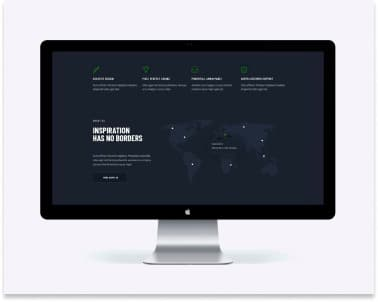
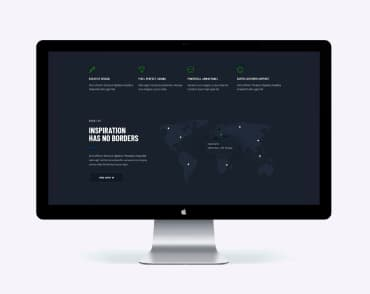
добавив display block

diff --git a/portfolio.html b/portfolio.html
@@ -70,64 +70,64 @@
           </ul>
           <ul class="project-list list">
             <li class="project-card">
-              <img src="./images/tehno.jpg" alt="Ноутбук з картками людей" width: "370" />
+              <img src="./images/tehno.jpg" alt="Ноутбук з картками людей" width:="370" />
               <div class="aside">
                 <h2 class="project-name">Технокряк</h2>
                 <p class="project-text">Веб-сайт</p>
               </div>
             </li>
             <li class="project-card">
-              <img src="./images/poster.jpg" alt="Постер New Orlean vs Golden Star" width: "370" />
+              <img src="./images/poster.jpg" alt="Постер New Orlean vs Golden Star" width:="370" />
               <div class="aside">
                 <h2 class="project-name">Постер New Orlean vs Golden Star</h2>
                 <p class="project-text">Дизайн</p>
               </div>
             </li>
             <li class="project-card">
-              <img src="./images/restoran.jpg" alt="Емблема ресторану Seafood" width: "370" />
+              <img src="./images/restoran.jpg" alt="Емблема ресторану Seafood" width:="370" />
               <div class="aside">
                 <h2 class="project-name">Ресторан Seafood</h2>
                 <p class="project-text">Додаток</p>
               </div>
             </li>
             <li class="project-card">
-              <img src="./images/prime.jpg" alt="Наушники" width: "370" />
+              <img src="./images/prime.jpg" alt="Наушники" width:="370" />
               <div class="aside">
                 <h2 class="project-name">Проєкт Prime</h2>
                 <p class="project-text">Маркетинг</p>
               </div>
             </li>
             <li class="project-card">
-              <img src="./images/boxes.jpg" alt="Подарункові коробки " width: "370" />
+              <img src="./images/boxes.jpg" alt="Подарункові коробки " width:="370" />
               <div class="aside">
                 <h2 class="project-name">Проєкт Boxes</h2>
                 <p class="project-text">Додаток</p>
               </div>
             </li>
             <li class="project-card">
-              <img src="./images/borders.jpg" alt="Монітор" width: "370" />
+              <img src="./images/borders.jpg" alt="Монітор" width:="370" />
               <div class="aside">
                 <h2 class="project-name">Inspiration has no Borders</h2>
                 <p class="project-text">Веб-сайт</p>
               </div>
             </li>
             <li class="project-card">
-              <img src="./images/lm.jpg" alt="Журнал" width: "370" />
+              <img src="./images/lm.jpg" alt="Журнал" width:="370" />
               <div class="aside">
                 <h2 class="project-name">Видання Limited Edition</h2>
                 <p class="project-text">Дизайн</p>
               </div>
             </li>
             <li class="project-card">
-              <img src="./images/lab.jpg" alt="Бірка проекту LAB" width: "370" />
+              <img src="./images/lab.jpg" alt="Бірка проекту LAB" width:="370" />
               <div class="aside">
                 <h2 class="project-name">Проєкт LAB</h2>
                 <p class="project-text">Маркетинг</p>
               </div>
             </li>
             <li class="project-card">
-              <img src="./images/growing.jpg" alt="Людина читає за ноутбуком про Growing" width:
-              "370" />
+              <img src="./images/growing.jpg" alt="Людина читає за ноутбуком про Growing"
+              width:="370" />
               <div class="aside">
                 <h2 class="project-name">Growing Business</h2>
                 <p class="project-text">Додаток</p>

diff --git a/css/styles.css b/css/styles.css
@@ -17,6 +17,10 @@ letter-spacing: 0.03em;
 font-size: 14px;
 }
 
+img {
+display: block;
+}
+
 /* Утиліта */
 
 .list {
@@ -232,8 +236,8 @@ line-height: 1.71;
     display: flex;
     flex-wrap: wrap;
 }
-.image {
 
+.image {
 width: 370px;
 }
 
@@ -393,10 +397,10 @@ flex-wrap: wrap;
 
 
 
-.project-card  {
-/* width: 370px; */
-width: calc((100% - 60) / 3);
-
+.project-card {
+    /* width: calc((100% - 60px) / 3); */
+    width: 370px;
+   
 }
 .project-card:not(:nth-last-child(-n + 3)) {
     margin-bottom: 30px;
